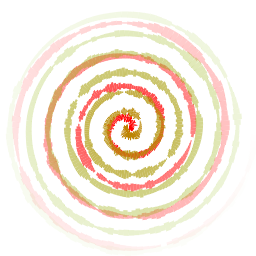
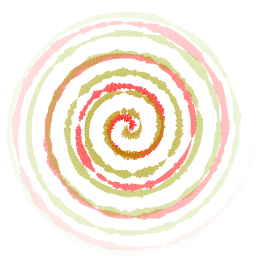
=fixed TestComplexPlot - I needed to provide a VariableManager instance =upgraded to dotnet 10 =fixed problems with new version of SixLabors (license is temporarily, tho)

diff --git a/Core/Engines/SixLaborsEngine.cs b/Core/Engines/SixLaborsEngine.cs
@@ -156,9 +156,9 @@ public class SixLaborsEngine : IImageEngine, IDrawEngine
 
 		var wrap = (SLCanvas)image;
 		wrap.Image.Mutate(ctx => ctx.Paint(canvas => {
-			ctx.SetGraphicsOptions(opts => {
-				opts.Antialias = true;
-			});
+			// ctx.SetGraphicsOptions(opts => {
+			// 	opts.Antialias = true;
+			// });
 			var pen = Pens.Solid(Color.FromPixel(rgba), (float)width);
 			canvas.DrawLine(pen, f0, f1);
 		}));
@@ -196,6 +196,9 @@ public class SixLaborsEngine : IImageEngine, IDrawEngine
 			SixLabors.ImageSharp.Formats.Tga.TgaFormat => false,
 			SixLabors.ImageSharp.Formats.Tiff.TiffFormat => true,
 			SixLabors.ImageSharp.Formats.Webp.WebpFormat => false,
+			SixLabors.ImageSharp.Formats.Exr.ExrFormat => false,
+			SixLabors.ImageSharp.Formats.Ico.IcoFormat => true,
+			SixLabors.ImageSharp.Formats.Cur.CurFormat => true,
 			_ => throw Squeal.FormatIsNotSupported(format.Name)
 		};
 		return isFramey;
@@ -213,6 +216,9 @@ public class SixLaborsEngine : IImageEngine, IDrawEngine
 			SixLabors.ImageSharp.Formats.Tga.TgaFormat => ".tga",
 			SixLabors.ImageSharp.Formats.Tiff.TiffFormat => ".tif",
 			SixLabors.ImageSharp.Formats.Webp.WebpFormat => ".webp",
+			SixLabors.ImageSharp.Formats.Exr.ExrFormat => ".exr",
+			SixLabors.ImageSharp.Formats.Ico.IcoFormat => ".ico",
+			SixLabors.ImageSharp.Formats.Cur.CurFormat => ".cur",
 			_ => throw Squeal.FormatIsNotSupported(format.Name)
 		};
 		return ext;
@@ -227,9 +233,12 @@ public class SixLaborsEngine : IImageEngine, IDrawEngine
 			SixLabors.ImageSharp.Formats.Pbm.PbmFormat => "image/x-portable-bitmap",
 			SixLabors.ImageSharp.Formats.Png.PngFormat => "image/png",
 			SixLabors.ImageSharp.Formats.Qoi.QoiFormat => "image/qoi", // https://gitlab.freedesktop.org/xdg/shared-mime-info/-/blob/master/data/freedesktop.org.xml.in
-			SixLabors.ImageSharp.Formats.Tga.TgaFormat => "image/x-targa",
+			SixLabors.ImageSharp.Formats.Tga.TgaFormat => "image/x-tga", // https://en.wikipedia.org/wiki/Truevision_TGA#MIME_type
 			SixLabors.ImageSharp.Formats.Tiff.TiffFormat => "image/tiff",
 			SixLabors.ImageSharp.Formats.Webp.WebpFormat => "image/webp",
+			SixLabors.ImageSharp.Formats.Exr.ExrFormat => "image/x-exr",
+			SixLabors.ImageSharp.Formats.Ico.IcoFormat => " image/x-icon", // https://en.wikipedia.org/wiki/ICO_%28file_format%29#MIME_type
+			SixLabors.ImageSharp.Formats.Cur.CurFormat => " image/x-icon", // https://en.wikipedia.org/wiki/CUR_%28file_format%29#MIME_type
 			_ => throw Squeal.FormatIsNotSupported(format.Name)
 		};
 		return ext;
@@ -318,6 +327,7 @@ struct Rgba256 : IEquatable<Rgba256>, IPixel<Rgba256>
 
 	public override readonly bool Equals(object compare)
 	{
+		if(compare == null) { return false; }
 		var right = (Rgba256)compare;
 		return this == right;
 	}
@@ -329,7 +339,7 @@ struct Rgba256 : IEquatable<Rgba256>, IPixel<Rgba256>
 
 	public static PixelOperations<Rgba256> CreatePixelOperations()
 	{
-		return PixelOperations<Rgba256>.Instance;
+		return new PixelOperations<Rgba256>();
 	}
 
 	public static PixelTypeInfo GetPixelTypeInfo()

diff --git a/Test/TestProgram.cs b/Test/TestProgram.cs
@@ -1,0 +1,59 @@
+using ImageFunctions.Test.Plugin.Functions;
+
+namespace ImageFunctions.Test;
+
+// TODO This is here to workaround VSCode and Zed test debugging inadequacies
+//  VScode can't find a project name ImageFunctions_Test. don't know why it's putting the underscore in there
+//  Zed doesn't have a mechanism to start a debug session directly from a test
+internal sealed class TestProgram
+{
+	static void Main(string[] args)
+	{
+		var ctx = new CustomTestContext();
+		Setup.Init(ctx);
+		var test = new TestComplexPlot {
+			TestContext = ctx
+		};
+
+		foreach(var info in TestComplexPlot.GetFunctionInfo()) {
+			test.Test(info);
+		}
+	}
+
+	class CustomTestContext : TestContext
+	{
+		public override IDictionary<string, object> Properties => new Dictionary<string, object>();
+
+		public override void AddResultFile(string fileName)
+		{
+			Console.WriteLine($"T: AddResultFile {fileName}");
+		}
+
+		public override void DisplayMessage(MessageLevel messageLevel, string message)
+		{
+			Console.WriteLine($"T: DisplayMessage {messageLevel} {message}");
+		}
+
+		public override void Write(string message)
+		{
+			Console.Write(message);
+		}
+
+		public override void Write(string format, params object[] args)
+		{
+			var message = string.Format(format, args);
+			Console.Write(message);
+		}
+
+		public override void WriteLine(string message)
+		{
+			Console.WriteLine($"W: {message}");
+		}
+
+		public override void WriteLine(string format, params object[] args)
+		{
+			var message = string.Format(format, args);
+			Console.WriteLine(message);
+		}
+	}
+}

diff --git a/Plugin/Functions/ComplexPlot/Function.cs b/Plugin/Functions/ComplexPlot/Function.cs
@@ -1,6 +1,7 @@
 using ImageFunctions.Core;
 using ImageFunctions.Core.Aides;
 using ImageFunctions.Core.ColorSpace;
+using Rasberry.MathEval;
 using Rasberry.MathEval.MathComplex;
 using System.Numerics;
 
@@ -55,6 +56,7 @@ public class Function : IFunction
 		//Test that the expression works
 		var mathEval = new MathComplexCompiled();
 		var evalResult = mathEval.PrepareExpression(Local.Expression);
+		//System.Diagnostics.Trace.WriteLine($"## E:{evalResult.ErrorCount} M:{evalResult.ErrorMessage} V:{(evalResult.Evaluator == null ? "null":"good")}");
 		if(evalResult.ErrorCount > 0) {
 			Context.Log.Error($"Failed expression: '{Local.Expression}'");
 			Context.Log.Error(evalResult.ErrorMessage);
@@ -94,11 +96,12 @@ public class Function : IFunction
 
 		Complex CalcComplex(int x, int y)
 		{
+			//System.Diagnostics.Trace.WriteLine($"V:{(evaluator==null?"null":"good")}");
 			double mx = x * (Local.MaxX - Local.MinX) / image.Width + Local.MinX;
 			double my = y * (Local.MaxY - Local.MinY) / image.Height + Local.MinY;
 			Complex point = new(mx, -my); //flip y to match traditional geometric axes
-
-			var result = evaluator.Evaluate(); //TODO fixed in feature/smooth
+			var variables = new VariableManager() { { "z", point } };
+			var result = evaluator.Evaluate(variables);
 			return result;
 		}
 

diff --git a/Core/FileIO/FileClerk.cs b/Core/FileIO/FileClerk.cs
@@ -38,7 +38,7 @@ public sealed class FileClerk : IFileClerk
 		}
 
 		var loc = TransformLocation(Location, ext, tag);
-		System.Diagnostics.Trace.WriteLine($"Location={Location} loc={loc}");
+		//System.Diagnostics.Trace.WriteLine($"Location={Location} loc={loc}");
 
 		var fs = FileIOInst.OpenForReading(loc);
 		OneStream = new WatchedStream(fs, Progress);

diff --git a/Test/Plugin/Functions/TestZoomBlur.cs b/Test/Plugin/Functions/TestZoomBlur.cs
@@ -14,8 +14,8 @@ public class TestZoomBlur : AbstractFunctionTest
 	{
 		using var layers = new Layers();
 		info.Layers = layers;
-		info.MaxDiff = 29.0;
-		// info.SaveImage = SaveImageMode.SubjectOnly;
+		info.MaxDiff = 31.0;
+		//info.SaveImage = SaveImageMode.SubjectOnly;
 		RunFunctionAndCompare(info);
 	}
 

diff --git a/Test/Plugin/Functions/TestComplexPlot.cs b/Test/Plugin/Functions/TestComplexPlot.cs
@@ -4,6 +4,7 @@ using System.Drawing;
 namespace ImageFunctions.Test.Plugin.Functions;
 
 [TestClass]
+[DoNotParallelize]
 public class TestComplexPlot : AbstractFunctionTest
 {
 	const int TestSizePixels = 256;
